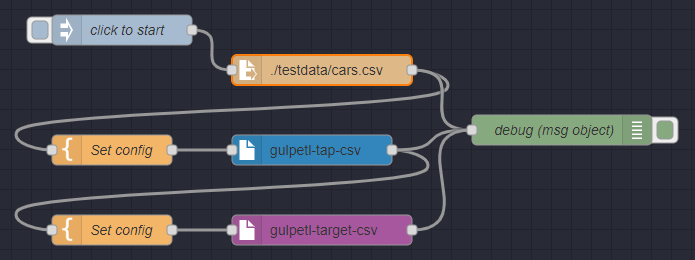
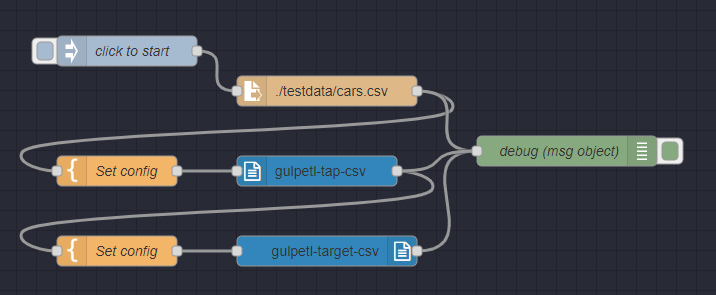
Tweaks; now ready to work in full gulp streaming mode

Changed region(s): [[0.0, 0.0308, 0.9971, 0.9538]]

diff --git a/gulpetl-tap-csv.js b/gulpetl-tap-csv.js
@@ -7,23 +7,30 @@ module.exports = function (RED) {
     RED.nodes.createNode(this, config);
     var node = this;
     node.on('input', function (msg) {
-      // TODO: add a local config so settings can be changed on this node
       let configObj = tapCsv.extractConfig(null/*local.config*/, msg.config);
 
-      let baseFileName = msg?.filename.split(/[\\/]/).pop().split('.')[0];
-      // tapCsv.csvParseText(msg.payload, msg?.filename.split('[\\/]').pop().split('.')[0], configObj)
-      tapCsv.csvParseText(msg.payload, baseFileName, configObj)
-        .then((data) => {
-          msg.payload = data;
-          console.log("msg.config", msg.config)
-          console.log("configObj", configObj)
-        })
-        .catch((err) => {
-          node.error(err.message);
-        })
-        .finally(() => {
-          node.send(msg);
-        })
+      if (!msg.topic?.startsWith("gulp")) {
+        let fileNameStem = msg?.filename.split(/[\\/]/).pop().split('.')[0];
+        tapCsv.csvParseText(msg.payload, fileNameStem, configObj)
+          .then((data) => {
+            msg.payload = data;
+            // console.log("msg.config", msg.config)
+            // console.log("configObj", configObj)
+          })
+          .catch((err) => {
+            node.error(err.message);
+          })
+          .finally(() => {
+            node.send(msg);
+          })
+      }
+      else {
+        if (msg.topic == "gulp-initialize") {
+          msg.plugins.push({ name: config.type, init: () => tapCsv.tapCsv(configObj) });
+        }
+
+        node.send(msg);
+      }
     })
   }
 

diff --git a/gulpetl-tap-csv.html b/gulpetl-tap-csv.html
@@ -9,14 +9,15 @@
         },
         inputs: 1,
         outputs: 1,
-        icon: "file.svg",
+        // icon: "file.svg",        
+        icon: "font-awesome/fa-file-text-o",
         label: function() {
             return this.name||"gulpetl-tap-csv";
         },
         paletteLabel: function() {
-            return this.name||"tap-csv";
-        },
-
+            // use small non-breaking dash character for visual presentation-- avoids the breaks node-red inserts around regular dashes in the palette - https://www.compart.com/en/unicode/category/Pd
+            return "tap-csv".replace("-","\u2011");
+        }
     });
 </script>
 
@@ -28,7 +29,7 @@
 </script>
 
 <script type="text/html" data-help-name="gulpetl-tap-csv">
-    <p>Converts a gulp-etl Message Stream to CSV lines
+    <p>Converts CSV lines to a gulp-etl Message Stream
         <br>
         <br><b>Input</b>: CSV lines (as a string, delimited by CR, LF, or CRLF)
         <br><b>Output</b>: NDJSON lines (as a newline-delimited string)

diff --git a/dist/types/plugin.d.ts b/dist/types/plugin.d.ts
@@ -12,8 +12,9 @@ interface ConvertParams {
  */
 export declare function convertCsvObjectToRecordLine(dataObj: Object, params?: ConvertParams | any): string | null;
 /**
- * Converts an [ndjson](https://ndjson.org/) input into an array of objects and passes the array to csvStringify for conversion to CSV
- * @param ndjsonLines May be a string or Buffer representing ndjson lines, or an array of json strings or an array of objects
+ * Converts a string/buffer CSV input into an a Message Stream
+ * @param csvLines A string or Buffer representing CSV lines
+ * @param streamName name to use for the "stream" property of each Message Stream record
  * @param configObj [CSV Stringify options object](https://csv.js.org/stringify/options/); optional
  * @returns A string representation of the CSV lines
  */

diff --git a/dist/js/plugin.js b/dist/js/plugin.js
@@ -52,8 +52,9 @@ function convertCsvObjectToRecordLine(dataObj, params) {
 }
 exports.convertCsvObjectToRecordLine = convertCsvObjectToRecordLine;
 /**
- * Converts an [ndjson](https://ndjson.org/) input into an array of objects and passes the array to csvStringify for conversion to CSV
- * @param ndjsonLines May be a string or Buffer representing ndjson lines, or an array of json strings or an array of objects
+ * Converts a string/buffer CSV input into an a Message Stream
+ * @param csvLines A string or Buffer representing CSV lines
+ * @param streamName name to use for the "stream" property of each Message Stream record
  * @param configObj [CSV Stringify options object](https://csv.js.org/stringify/options/); optional
  * @returns A string representation of the CSV lines
  */

diff --git a/dist/lib/plugin.js b/dist/lib/plugin.js
@@ -52,8 +52,9 @@ function convertCsvObjectToRecordLine(dataObj, params) {
 }
 exports.convertCsvObjectToRecordLine = convertCsvObjectToRecordLine;
 /**
- * Converts an [ndjson](https://ndjson.org/) input into an array of objects and passes the array to csvStringify for conversion to CSV
- * @param ndjsonLines May be a string or Buffer representing ndjson lines, or an array of json strings or an array of objects
+ * Converts a string/buffer CSV input into an a Message Stream
+ * @param csvLines A string or Buffer representing CSV lines
+ * @param streamName name to use for the "stream" property of each Message Stream record
  * @param configObj [CSV Stringify options object](https://csv.js.org/stringify/options/); optional
  * @returns A string representation of the CSV lines
  */

diff --git a/src/plugin.ts b/src/plugin.ts
@@ -56,8 +56,9 @@ export function convertCsvObjectToRecordLine(dataObj: Object, params?:ConvertPar
 }
 
 /**
- * Converts an [ndjson](https://ndjson.org/) input into an array of objects and passes the array to csvStringify for conversion to CSV
- * @param ndjsonLines May be a string or Buffer representing ndjson lines, or an array of json strings or an array of objects 
+ * Converts a string/buffer CSV input into an a Message Stream
+ * @param csvLines A string or Buffer representing CSV lines
+ * @param streamName name to use for the "stream" property of each Message Stream record
  * @param configObj [CSV Stringify options object](https://csv.js.org/stringify/options/); optional
  * @returns A string representation of the CSV lines
  */

diff --git a/README.md b/README.md
@@ -23,6 +23,7 @@ If its `columns` option is *false* `csv-parse` returns arrays for each row inste
 ### Sample gulpfile.js
 
 ``` javascript
+
 /* parse all .CSV files in a folder into Message Stream files in a different folder */
 
 let gulp = require('gulp')
@@ -32,9 +33,9 @@ var tapCsv = require('gulp-etl-tap-csv').tapCsv
 exports.default = function() {
     return gulp.src('data/*.csv')
     .pipe(tapCsv({ columns:true }))
-    .pipe(rename({ extname: ".ndjson" })) // rename to *.ndjson
     .pipe(gulp.dest('output/'));
 }
+
 ```
 
 ### gulp-data
@@ -44,10 +45,8 @@ allows data/options from the pipeline to be used to create options passed to thi
 See the demonstration in `debug/gulpfile.ts` for usage examples.
 
 ### Node-RED ###
-[Node-RED](https://nodered.org/) is a low-code, visual programming environment for event-driven applications. We're experimenting with it, and this plugin is now available as a Node-RED node. Since we're still in test mode, we aren't yet available in Node-RED's Palette; add to Node-RED by going to your user folder and typing:
-```
-npm install gulp-etl-tap-csv
-```
+[Node-RED](https://nodered.org/) is a low-code, visual programming environment for event-driven applications. Install this node under Manage Palette, look for `gulp-etl-tap-csv`
+
 #### Demo flow ####
 
 ![Demo flow](./resources/demoflow.png)
@@ -90,17 +89,20 @@ And when it finishes, the data should be back in CSV format again!
 Copy the demo flow for import in Node-RED under `Import`:
 
 ``` json
-[{"id":"bd15ad43f5227ed0","type":"file in","z":"cd67672e19ab739a","name":"","filename":"./testdata/cars.csv","filenameType":"str","format":"utf8","chunk":false,
-"sendError":false,"encoding":"none","allProps":false,"x":330,"y":380,"wires":[["57240500756eadd1","bd4928a1fe33a509"]]},{"id":"5a22ef69893bbc79","type":"inject",
-"z":"cd67672e19ab739a","name":"click to start","props":[{"p":"payload"},{"p":"topic","vt":"str"}],"repeat":"","crontab":"","once":false,"onceDelay":0.1,
-"topic":"","payload":"","payloadType":"date","x":130,"y":340,"wires":[["bd15ad43f5227ed0"]]},{"id":"7e1608b8b0ea106d","type":"gulpetl-target-csv",
-"z":"cd67672e19ab739a","name":"","x":330,"y":540,"wires":[["bd4928a1fe33a509"]]},{"id":"16687292eb745dab","type":"template","z":"cd67672e19ab739a","name":"Set 
-config","field":"config","fieldType":"msg","format":"json","syntax":"plain","template":"{\n    \"quoted\":false,\n    \"header\":true\n}","output":"json","x":120,
-"y":540,"wires":[["7e1608b8b0ea106d"]]},{"id":"5e5268849aacb118","type":"gulpetl-tap-csv","z":"cd67672e19ab739a","name":"","x":320,"y":460,"wires":
-[["16687292eb745dab","bd4928a1fe33a509"]]},{"id":"57240500756eadd1","type":"template","z":"cd67672e19ab739a","name":"Set config","field":"config",
-"fieldType":"msg","format":"json","syntax":"plain","template":"{\n    \"columns\":true\n}","output":"json","x":120,"y":460,"wires":[["5e5268849aacb118"]]},
-{"id":"bd4928a1fe33a509","type":"debug","z":"cd67672e19ab739a","name":"debug (msg object)","active":true,"tosidebar":true,"console":false,"tostatus":false,
-"complete":"true","targetType":"full","statusVal":"","statusType":"auto","x":570,"y":440,"wires":[]}]
+[{"id":"bd15ad43f5227ed0","type":"file in","z":"cd67672e19ab739a","name":"","filename":"./testdata/cars.csv","filenameType":"str","format":"utf8","chunk":false,"sendError":false,"encoding":"none","allProps":false,"x":330,"y"
+:380,"wires":[["57240500756eadd1","bd4928a1fe33a509"]]},{"id":"5a22ef69893bbc79","type":"inject","z":"cd67672e19ab739a"
+,"name":"click to start","props":[{"p":"payload"},{"p":"topic","vt":"str"}],"repeat":"","crontab":"","once":false
+,"onceDelay":0.1,"topic":"","payload":"","payloadType":"date","x":130,"y":340,"wires":[["bd15ad43f5227ed0"]]},{"id"
+:"7e1608b8b0ea106d","type":"gulpetl-target-csv","z":"cd67672e19ab739a","name":"","x":330,"y":540,"wires"
+:[["bd4928a1fe33a509"]]},{"id":"16687292eb745dab","type":"template","z":"cd67672e19ab739a","name":"Set config","field"
+:"config","fieldType":"msg","format":"json","syntax":"plain","template":"{\n    \"quoted\":false,\n    \"header\":true\n}",
+"output":"json","x":120,"y":540,"wires":[["7e1608b8b0ea106d"]]},{"id":"5e5268849aacb118","type":"gulpetl-tap-csv","z"
+:"cd67672e19ab739a","name":"","x":320,"y":460,"wires":[["16687292eb745dab","bd4928a1fe33a509"]]},{"id"
+:"57240500756eadd1","type":"template","z":"cd67672e19ab739a","name":"Set config","field":"config","fieldType":"msg"
+,"format":"json","syntax":"plain","template":"{\n    \"columns\":true\n}","output":"json","x":120,"y":460,"wires"
+:[["5e5268849aacb118"]]},{"id":"bd4928a1fe33a509","type":"debug","z":"cd67672e19ab739a","name":"debug (msg object)"
+,"active":true,"tosidebar":true,"console":false,"tostatus":false,"complete":"true","targetType":"full","statusVal":""
+,"statusType":"auto","x":570,"y":440,"wires":[]}]
 ```
 
 ### Quick Start for Coding on This Plugin
